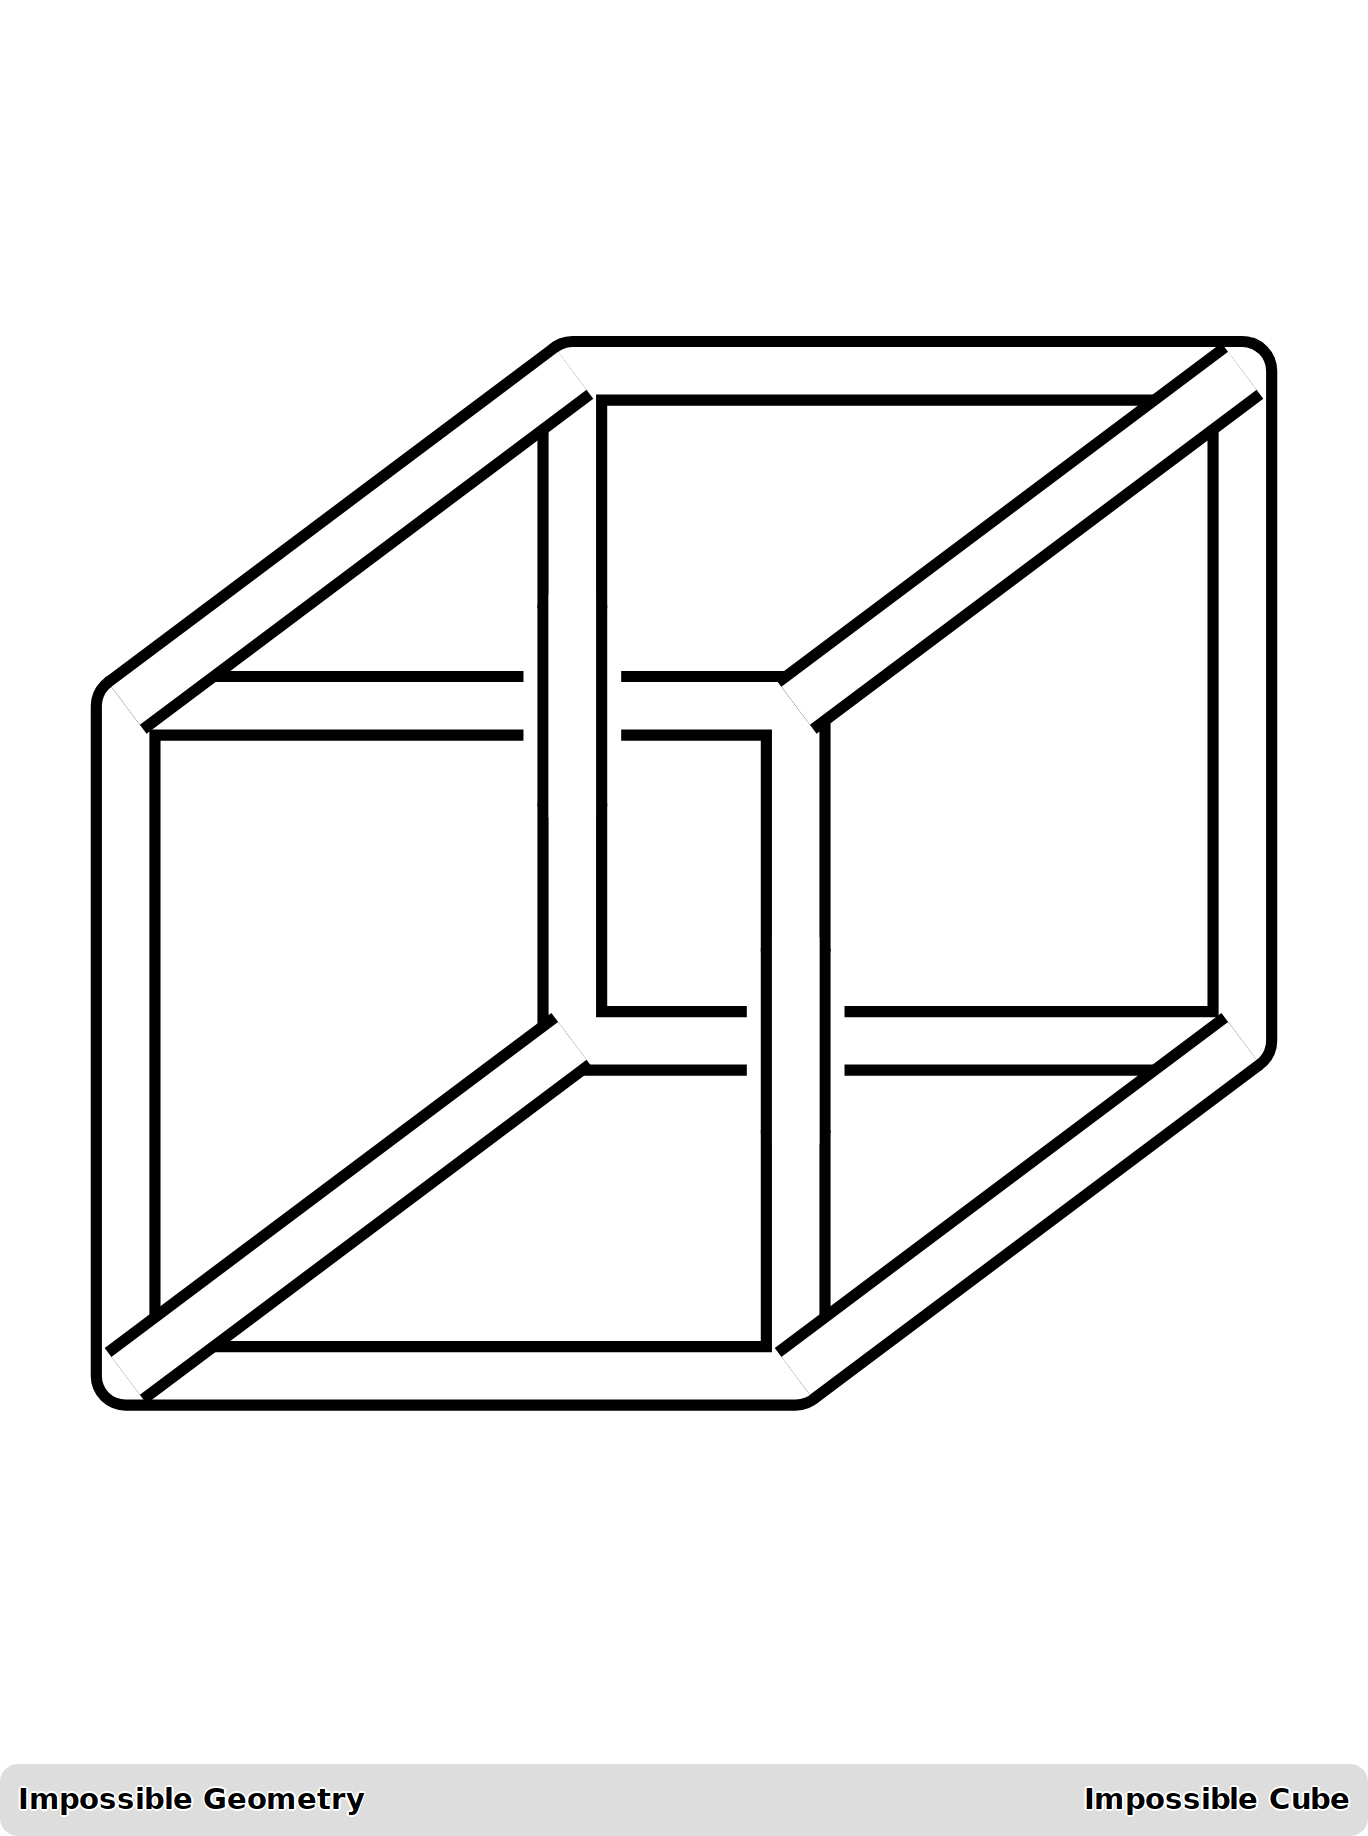
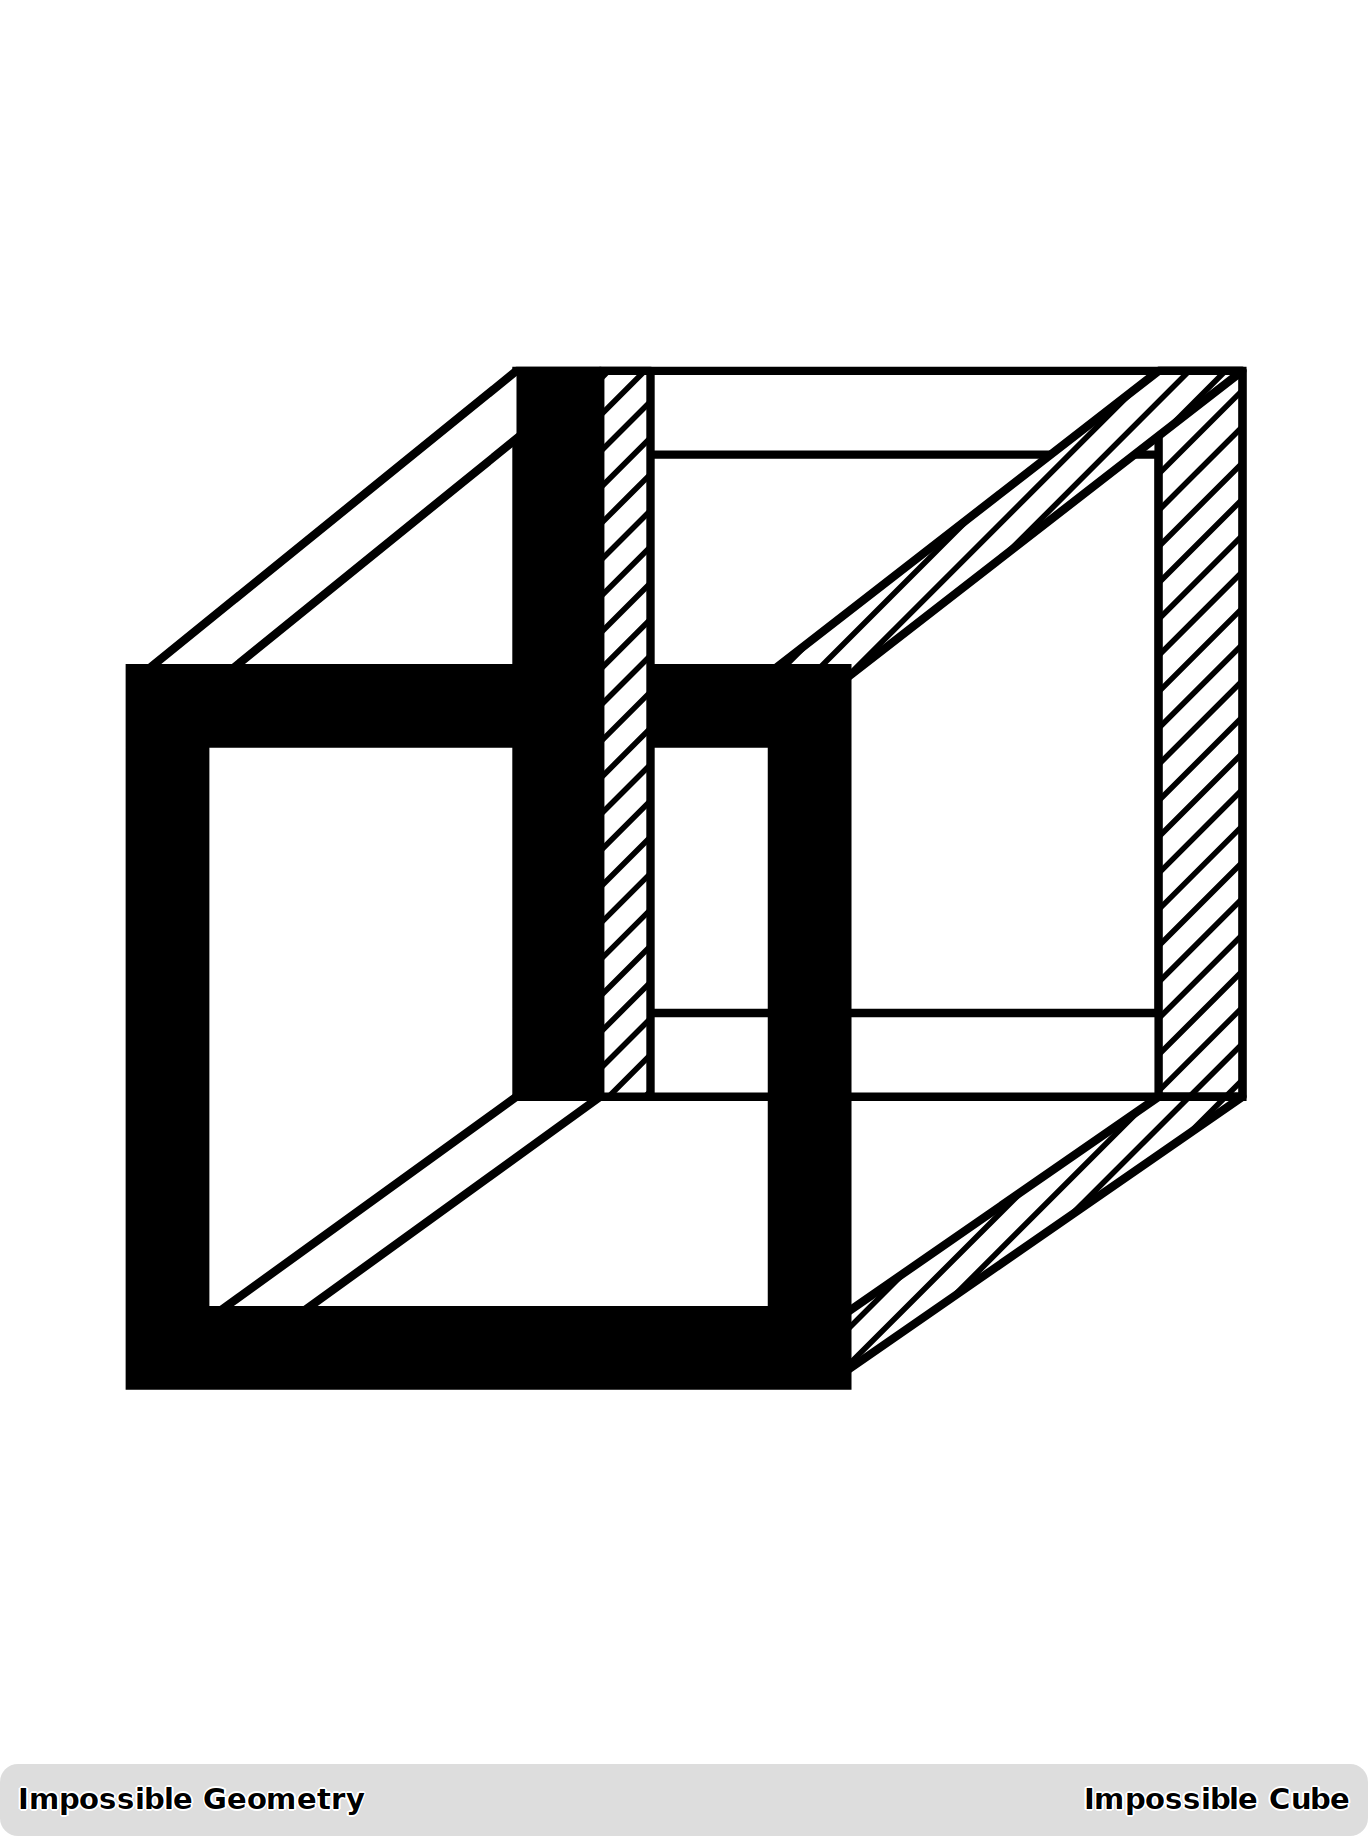
Refine impossible cube with solid face and shaded depth

Changed region(s): [[0.0614, 0.1552, 0.9518, 0.7761], [0.2763, 0.2794, 0.307, 0.3105], [0.2456, 0.2484, 0.2763, 0.2794]]

diff --git a/docs/artwork.md b/docs/artwork.md
@@ -16,7 +16,7 @@ Superseded generated architectural studies are retained in Git history, not in t
 
 ## Impossible Cube
 
-An independently constructed outlined cube with contradictory over/under order: a rear upright crosses in front of the near top edge. Source: `scripts/build-art.cjs`; output: `assets/artwork/impossible-cube.svg`.
+An independently constructed solid-frame cube with contradictory over/under order: the rear upright crosses over the near top edge, while the near right post hides the rear bottom edge. The front is black, the top white and the side hatching is clipped to the face polygons. Source: `scripts/build-art.cjs`; output: `assets/artwork/impossible-cube.svg`.
 
 ## Impossible Trident
 
